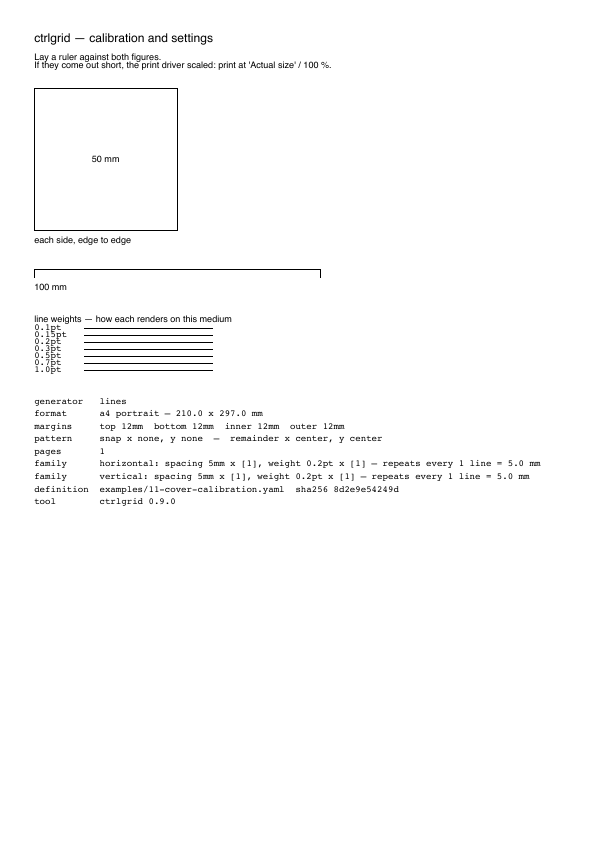
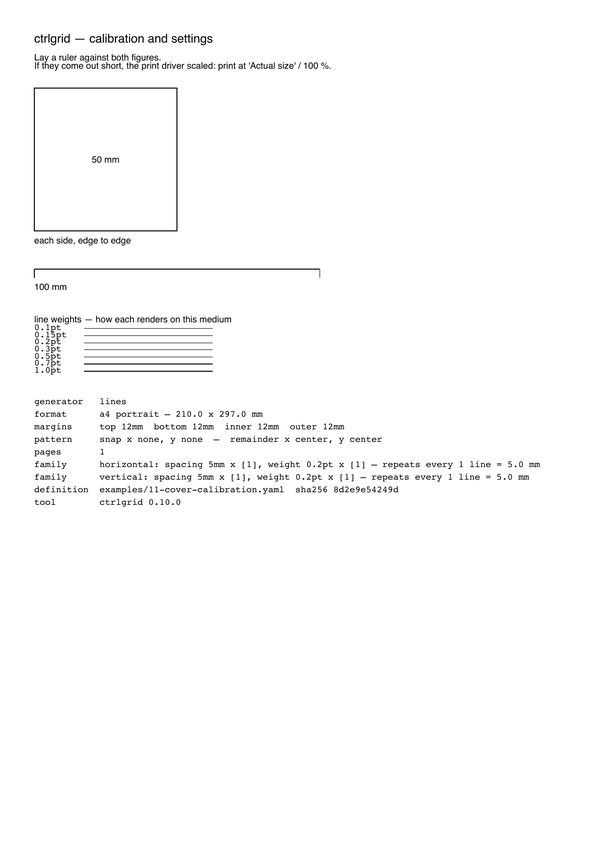
0.10.0 — the features were done at 0.9.0; now they have been audited
0.9.0 claimed the specification was fully built. That was true and it was not
enough: nothing had been checked the way a first user would meet it. The five
commits before this one did that, and what they found is why this is a minor
bump and not a patch — `--version` is new, and a document generator now behaves
differently (it carries the page model, and refuses three keys by name instead
of accepting them and doing nothing).

The version lives in one place, `ctrlgrid/__init__.py`, and it is in every PDF's
/Creator and /Producer and printed on the cover sheet — so every committed
gallery PDF is stale the moment it changes. All seventeen are rebuilt here.
Checked rather than assumed: rasterised at 60 dpi and compared page by page
against the previous build, **only the cover sheet differs visually**, and it
differs in exactly the line that reads `tool  ctrlgrid 0.10.0`. Its preview PNG
is rebuilt with it, at the same 600×849 as the others. Everything else is
byte-different and pixel-identical, which is what a version string in the
trailer should do.

`docs/CLAUDE.md` is brought up to date the way this project asks — so the next
instance inherits the truth rather than a leftover:

- what 0.10.0 claims, and what still stands between it and 1.0.0 (use, not code)
- a *release-readiness pass* section: what was measured and held (integer
  micrometres across all 19 presets and 18 examples with an instrumented writer;
[…]

diff --git a/ctrlgrid/__init__.py b/ctrlgrid/__init__.py
@@ -4,4 +4,4 @@ The design is specified in docs/pflichtenheft-vorlagengenerator.md (German), and
 everything it describes is built; see docs/CLAUDE.md for orientation.
 """
 
-__version__ = "0.9.0"
+__version__ = "0.10.0"

diff --git a/docs/CLAUDE.md b/docs/CLAUDE.md
@@ -27,13 +27,17 @@ Nothing refuses with "a later milestone" any more — that mechanism is still
 there (`Section.deferred`, `loader.DEFERRED_KEYS`) and currently empty, which is
 worth knowing when the next unbuilt key arrives.
 
-**0.9.0** is the version in the code (2026-07-26), and the number is a claim:
-everything the specification describes is built, so the only thing between here
-and 1.0.0 is *use* — nobody outside has written a definition, and nobody has yet
-cut a net out and folded it. 1.0.0 is a promise about the **DSL**, and it should
-wait until the promise has been checked against paper by someone other than the
-test suite. Nothing has been released either way: releasing needs a human, and
-the user has chosen to defer PyPI for now (see *Not done*).
+**0.10.0** is the version in the code (2026-07-26). 0.9.0 said the features were
+complete; 0.10.0 says they have been **audited against a first user**, which is a
+different claim and was worth its own number. What that audit found is in the
+five commits before this one and summarised under *The release-readiness pass*
+below; the short version is that the core promises — dimensional accuracy and
+byte-identical output — held under measurement, and the edges did not.
+
+The only thing between here and 1.0.0 is still *use*: nobody outside has written
+a definition, and nobody has yet cut a net out and folded it. 1.0.0 is a promise
+about the **DSL**, and it should wait until that promise has been checked against
+paper by someone other than the test suite.
 
 The version lives in **one** place, `ctrlgrid/__init__.py`; `pyproject.toml`
 reads it dynamically and the release workflow compares the git tag against it.
@@ -45,15 +49,15 @@ sheet's preview with them, since that sheet prints the version.
 uv sync --extra dev && uv run pytest && uv run ruff check .
 ```
 
-1158 tests, all green, ruff clean. 151 commits on `main`, linear history,
-pushed to **[github.com/DocAtPrompt/ctrlgrid](https://github.com/DocAtPrompt/ctrlgrid)**
+1192 tests, all green, ruff clean, linear history on
+**[github.com/DocAtPrompt/ctrlgrid](https://github.com/DocAtPrompt/ctrlgrid)**
 (public); CI runs green there on Linux (3.11–3.13), macOS and Windows. Nineteen
-presets — one per blade (`lines`, `dots`, `polar`, `form`, `maze`,
-`perspective`, `mandala`, `staves`, `grid`, `tiling`, `net`), the two documents
-(`calendar-a4`, `notebook-a4`), and four papers that are all `lines` with
-different cycles (`calligraphy-a4`, `seyes-a4`, `mizige-a4`,
-`knitting-chart-a4`, `precrease-16-a4`, `plot-a4`) — and a
-rendered
+presets — twelve that show a generator (`dots-5mm`, `grid-a4`, `mandala-a4`,
+`maze-medium`, `perspective-2pt-a4`, `phone-log-a5`, `polar-a4`,
+`staves-treble-a4`, `tiling-hex-a4`, `box-tuck-a4`, and the two documents
+`calendar-a4` and `notebook-a4`) and **seven papers that are all `lines` with
+different cycles** (`millimeter-a4`, `calligraphy-a4`, `seyes-a4`, `mizige-a4`,
+`knitting-chart-a4`, `precrease-16-a4`, `plot-a4`) — and a rendered
 **example gallery** in [`examples/`](../examples/) — eighteen definitions:
 one A4 sheet per blade, a multi-page maze booklet, the cover sheet, a notebook,
 a calligraphy guide, an edge-ruler sheet, a box net and the calendar. Each is an
@@ -115,6 +119,7 @@ edge, so a tick now carries its position *and* its value separately. `unit` says
 | post-M9 `notebook` | the **second document generator**, and the first that composes blades (§ 7.13, decision 50): sections, each filled by an ordinary generator, with a linked contents page, opt-in dividers and a cover. The seam: a `DocumentPage` may carry a `Fill` (generator name + validated config) instead of marks, and **the handle calls the blade** — `pages.document_page_marks` is the one function that says what is on a page, used by the writer, the capability pre-flight and the media check. A section is a definition in miniature, validated by that blade's own `config_model` with the loader's context (so `px`/`%w` resolve there too). Document bands are now laid out **per page**, so `{page}` counts and a per-page `{section}` names the section; `calendar-a4` stayed byte-identical. `page_layout.Page` extracted from `calendar_layout` and shared. Preset `notebook-a4`, example `15-notebook` |
 | post-M9 band colour | a header/footer `Band` takes `background` (a full-width strip, band height only) and `text_color`, both default off — drawn in `layout_band` so both the blade and document paths get them; resolves the title-page contrast (§ 8.9) |
 | pulled forward into M1 | format table, presets, `check`, overwrite protection, placeholders — the M1 acceptance criteria needed them |
+| 0.10.0 release-readiness | the audit above, in five commits: three degenerate values that hung or crashed instead of refusing; **`page_furniture`**, so the document path carries the page model (duplex, border, hole marks, ruler, stamp, background) instead of dropping it silently, plus three keys refused by name and a fourth (a multi-sheet blade in a notebook section) refused for now (decision 52); five messages made actionable and `--version` added; a ruler tick that ran off the edge, a ruler font that was never opened, an unreachable bookmark guard; and twenty-six stale comments |
 
 ### Not done
 
@@ -134,15 +139,22 @@ edge, so a tick now carries its position *and* its value separately. `unit` says
 
 **Three more things wait, and none of them is code:**
 
-- **PyPI** is deferred by the user's own choice ("vorerst verzichten"), so
-  `uvx ctrlgrid` (the bare PyPI form) does not work and that is intended.
-  Install from git — `uvx --from git+https://github.com/DocAtPrompt/ctrlgrid.git
-  ctrlgrid …`, verified working, font and presets included. When it is wanted: a
-  human sets up trusted publishing (https://pypi.org/manage/account/publishing/
-  for `DocAtPrompt/ctrlgrid`, workflow `release.yml`, environment `pypi`), then
-  the first tag is pushed. **There are no tags at all** — the stale `v0.1.0` was
-  deleted on 2026-07-26 — so the next one is the first real release tag, and it
-  must carry the same number as `ctrlgrid.__version__`.
+- **PyPI: wanted now, and everything on this side is ready.** The user decided on
+  2026-07-26 to publish, after the release-readiness pass above. Checked since:
+  the name **`ctrlgrid` is free** (`https://pypi.org/pypi/ctrlgrid/json` → 404,
+  which is how PyPI says "no such project"); the built wheel carries all 19
+  presets, the clef font, its OFL text, `formats.yaml` and `devices.yaml`; the
+  release workflow gates on the suite and compares the tag against
+  `ctrlgrid.__version__`. What still needs a human: **trusted publishing** at
+  https://pypi.org/manage/account/publishing/ for `DocAtPrompt/ctrlgrid`,
+  workflow `release.yml`, environment `pypi` — then the tag is pushed.
+  **There are no tags at all** (the stale `v0.1.0` was deleted on 2026-07-26), so
+  the next one is the first real release tag and must read `v0.10.0`.
+  Two things worth knowing before it goes: a version can never be re-uploaded to
+  PyPI, only yanked; and the README's links were made absolute for exactly this,
+  because a relative link resolves against pypi.org on the project page and dies.
+  Until it is published, install from git —
+  `uvx --from git+https://github.com/DocAtPrompt/ctrlgrid.git ctrlgrid …`.
 - **Nobody has cut a net out and folded it.** `examples/16-net-tray.yaml` checks
   the geometry, `box-tuck-a4` also checks the thickness rule. The tests agree
   with the arithmetic; only paper can disagree with it (§ 7.14).
@@ -155,13 +167,49 @@ never silently: § 5.1 calls a PDF that is *almost* right the worst failure clas
 there is, so `border:` must never have read as an unknown key while it was
 unbuilt, and `snap:` must never have been quietly ignored.
 
-**`grep -rn "milestone M" ctrlgrid/` now finds only a docstring.** Everything the
-specification describes is built — `--skip-unsupported` (§ 10.2) was the last of
-it. The machinery stays and is worth knowing about, because the next unbuilt key
+**`grep -rn "milestone M" ctrlgrid/` and `grep -rn "this milestone" ctrlgrid/`
+both find nothing**, and neither does a search for TODO, FIXME or HACK. Both
+greps are needed: the first alone was the claim this file used to make, and it
+missed four live present-tense milestone comments that said "this milestone"
+without an M — including one declaring `border` unbuilt. Everything the
+specification describes is built; `--skip-unsupported` (§ 10.2) was the last of
+it. The remaining `M1`/`M6`/`M9` mentions are lineage ("complete from M1 on"),
+not claims about the present.
+
+The machinery stays and is worth knowing about, because the next unbuilt key
 will need it: `Section.deferred` (a per-section map of key → sentence) and
 `loader.DEFERRED_KEYS` (the same for the top level) both still work and are
 currently empty, except for `Margin.deferred`, which explains why margins are
-named `inner`/`outer` rather than `left`/`right` (§ 8.1).
+named `inner`/`outer` rather than `left`/`right` (§ 8.1). It also has a second
+use now, shown by the document generators: a key the tool **will not** honour on
+this path is refused by name rather than ignored (`--nup`, `--cover`,
+`pattern.align` on a `calendar` or `notebook` — decision 52).
+
+### The release-readiness pass (2026-07-26)
+
+Before publishing, the code was audited as a stranger would meet it — a wheel
+installed into a fresh venv and driven, plus four parallel readers over all 45
+modules. Worth knowing, because it says what has and has not been checked:
+
+**Measured and holding.** Integer micrometres: every one of the 19 presets and 18
+examples built with an instrumented writer, **zero** non-integer coordinates in
+anything drawn. Determinism: ten preset pairs built twice, byte-identical.
+Library confinement, `yield`-not-list, no silent `except` — clean across all 45
+modules. The blade→handle direction of § 3.3 is intact: no blade reaches up, no
+handle module names a blade.
+
+**What it found, and what was done.** Two `ZeroDivisionError` tracebacks and one
+infinite loop in `ctrlgrid check` (all three were degenerate zeros that arrived
+before the check that would judge them); the document write path silently
+dropping most of the page model; five error messages that could not be acted on,
+one of which printed raw micrometres against § 3.3; a missing `--version`; three
+things accepted and then ignored (a ruler font file, a tick off the edge, an
+unreachable capability guard); and twenty-six comments the code beside them had
+outgrown. All fixed, each test-first, one commit per coherent block.
+
+**Why 1192 tests had not caught the biggest one:** they exercise the blade path.
+The document path is young, has two generators and far thinner coverage, and four
+of the five serious findings were there. That is where to look first.
 
 ## Read this before writing anything
 
@@ -210,7 +258,7 @@ and knows nothing about margins.
 | `axes.py` | `AxisPeriod` — what the handle needs from a blade for § 8.3/§ 8.5 |
 | `model.py` | pydantic sections; `Section` base with `extra="forbid"` + `deferred` |
 | `loader.py` | YAML → `Document`; formats, presets, devices, name lists |
-| `pages.py` | `Geometry`, page loop, placeholders, `preflight`, `build`, `snap: pixel` |
+| `pages.py` | `Geometry`, page loop, placeholders, `preflight`, `build`, `snap: pixel`, and **`page_furniture`** — the one function that says what the handle draws around a page's own marks, used by the blade path *and* the document path |
 | `frame.py` | header/footer layout, border, background, hole marks, the edge ruler's marks and its fit check, stamp |
 | `labels.py` | counting patterns `n`/`a`/`A`, explicit lists (§ 7.10) |
 | `clip.py` | Liang–Barsky in exact rationals, shared by `perspective` and slanted `lines` |
@@ -298,14 +346,20 @@ that needed blade knowledge became a *query the handle asks* rather than geometr
 pushed into the blade. Keep that line. When a new feature tempts you to hand a
 blade the page, the margins, or the device, look first for the question the
 handle could ask instead — that is how `periodic_axes`, `check`, `sheets`,
-`supports_snap` and `capabilities` all came to be. Four recent features are the
+`supports_snap` and `capabilities` all came to be. Five recent features are the
 pattern worth studying: the relative measure resolves in the *loader's*
 validation context like `px` (no blade touched); `pattern.align` reflects
 finished marks in `pages.py` with `mirror_y` (the blade never learns which
 corner it anchored to, § 3.3); the edge ruler is drawn by the handle from the
-geometry, so no blade knows it exists; and `notebook` — the hardest case, since
+geometry, so no blade knows it exists; `notebook` — the hardest case, since
 it *composes* blades — still touches none, because a page carries a `Fill` and
-the **handle** calls the generator (§ 7.13, decision 50).
+the **handle** calls the generator (§ 7.13, decision 50); and `page_furniture`,
+which is the negative lesson made positive. It exists because the frame was
+written twice — once on the blade path, not at all on the document path — and
+six features were silently missing from half the tool for two whole generators
+(decision 52). **When something is drawn on more than one path, one function
+must say what it is.** That is the fourth time this codebase has learnt it, after
+`layout_band`, the writer wrapper and `document_page_marks`.
 
 **Nothing proper is left**; *Not done* above lists what is, and none of it is
 code. If you add a blade or option, the
@@ -336,8 +390,8 @@ supply:
 |---|---|
 | a device | the empty `quirks` (decision 31), and the rM2 figures nobody has measured on the device — the Paper Pro is owner-checked, the rM2 is not |
 | a pair of scissors | print `examples/16-net-tray.yaml` and `box-tuck-a4` at 100 %, cut, fold. The tray checks the geometry; the tuck-top also checks the thickness rule. **No test can do this**, and until someone does, the tests only agree with themselves |
-| a pypi.org login | trusted publishing, then the first real tag (there are no tags at all — the stale `v0.1.0` was deleted on 2026-07-26) |
-| use | the three § 15 questions below, and 1.0.0 itself: 0.9.0 says the features are done and the DSL has not yet met anyone else |
+| a pypi.org login | trusted publishing, then the first real tag — `v0.10.0`. Everything on this side is ready and the name is free; see *Not done* |
+| use | the three § 15 questions below, and 1.0.0 itself: 0.10.0 says the features are done and audited, and the DSL has not yet met anyone else |
 
 If a new feature *is* wanted, the recipe has not changed since M1: a design
 settled with the user first when there is a real fork in it, then a plan, then
@@ -345,7 +399,7 @@ test-first with the *why* and its § number in the comment, one coherent commit,
 a real rendered sheet read back — and the spec, `implementation-decisions.md`
 and this file updated in the same breath.
 
-Two habits earned their place the hard way and are worth keeping:
+Three habits earned their place the hard way and are worth keeping:
 
 - **Measure against the declared value, never against the drawing.** An angle
   read back with `atan2` from rounded endpoints, a position measured from the
@@ -357,6 +411,12 @@ Two habits earned their place the hard way and are worth keeping:
   because "the cross agrees with the scale" was verified — and both came from
   the same centre. The third quantity, the grid, was the only one that could
   have contradicted it, and it was not looked at until the user did.
+- **A probe that does not fire proves nothing either — suspect the probe first.**
+  During the release audit I twice concluded a check was missing, and twice the
+  check was there and my test was wrong: a name list without `{name}` in any band
+  draws no text, so the glyph check has nothing to refuse; and a pipeline's `$?`
+  is `head`'s exit code, not the tool's. Both would have been reported as bugs.
+  Before writing "X is not checked", make the probe fail on purpose.
 
 A specific paper aeroplane was considered and **refused**: it is a drawing, not
 a structure, and § 2 rules out a drawing language.

diff --git a/README.md b/README.md
@@ -10,7 +10,8 @@ fillable forms, perspective grids and mandalas — plus a **linked, write-on
 calendar** and a **notebook** that binds any of them into one document — for
 paper formats **and** for e-ink tablets.
 
-> **Status: 0.9.0 — everything the specification describes is built.** The
+> **Status: 0.10.0 — everything the specification describes is built, and
+> audited against a first-time user.** The
 > eleven generators of the table below work, and so do the two *document*
 > generators (`calendar`, `notebook`); the dimensional test described below
 > measures `lines` out of a finished PDF on every commit, and `net` puts the
